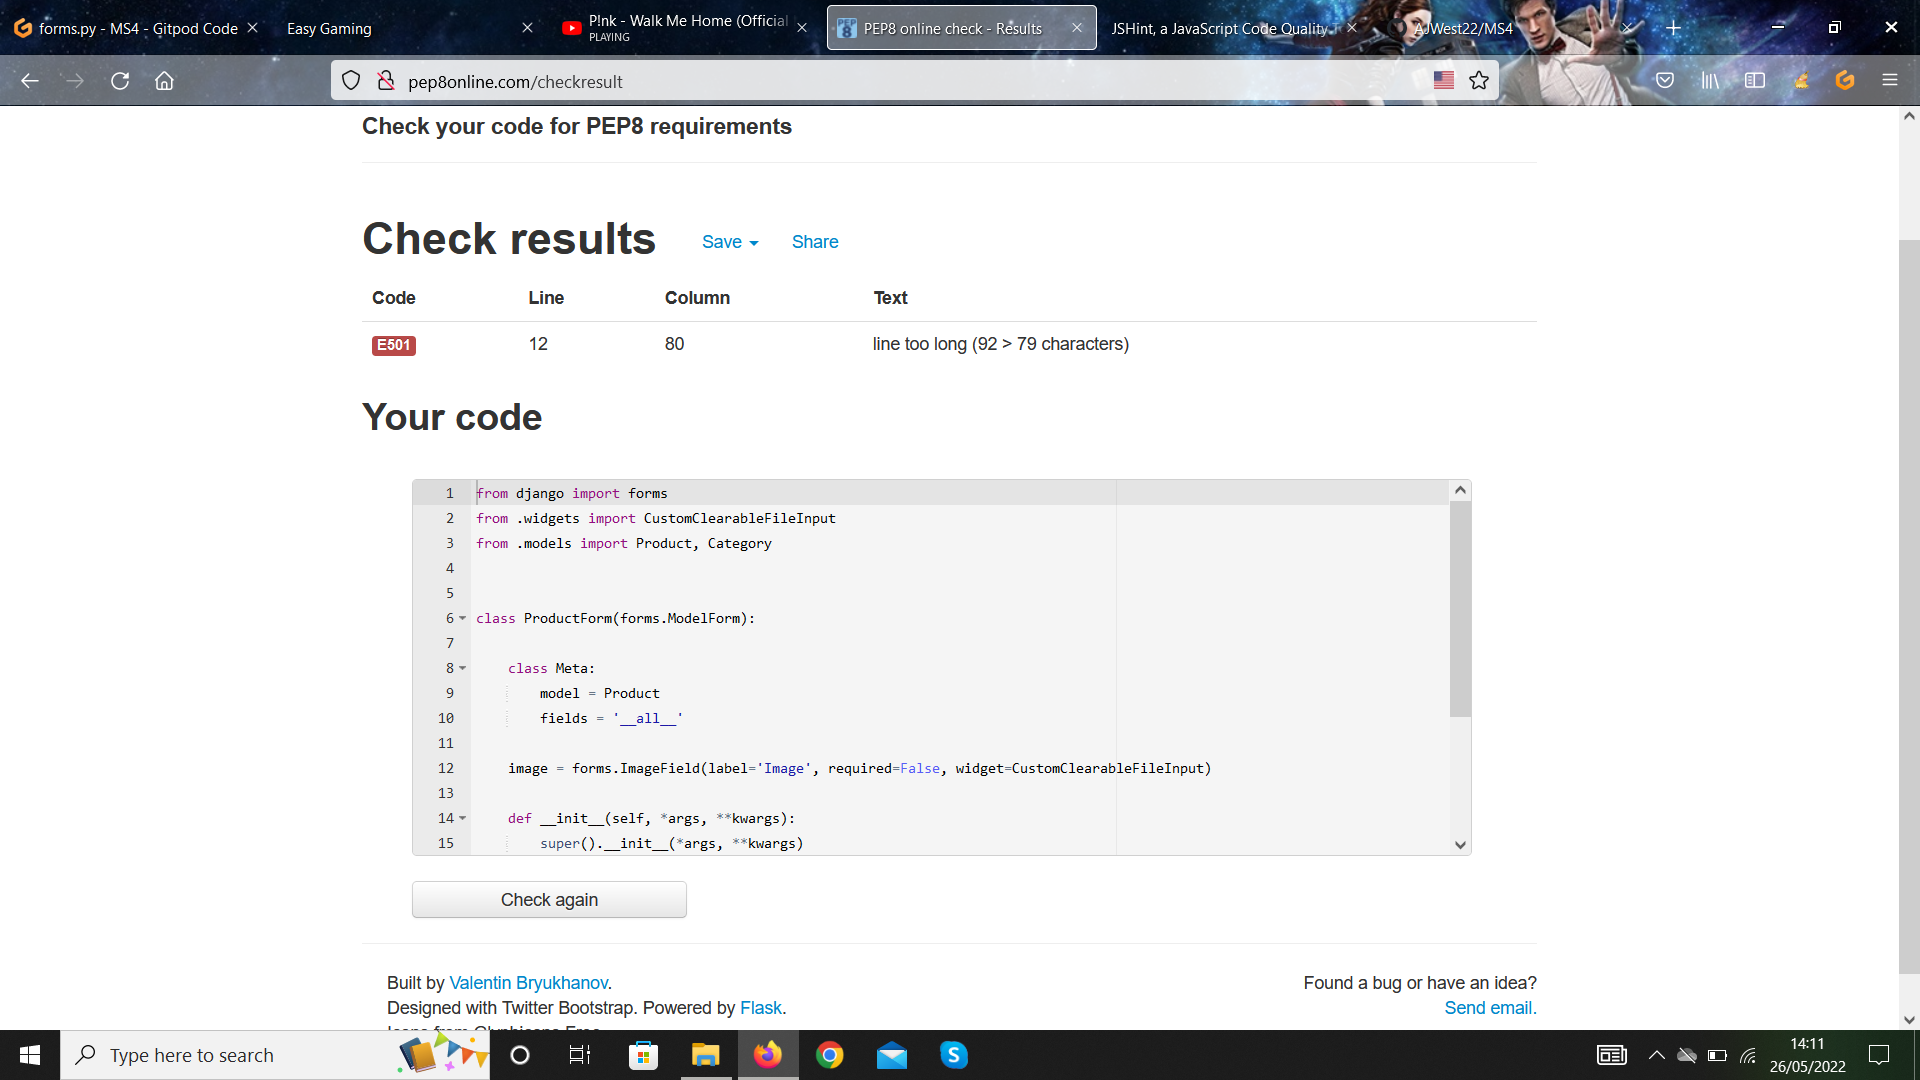
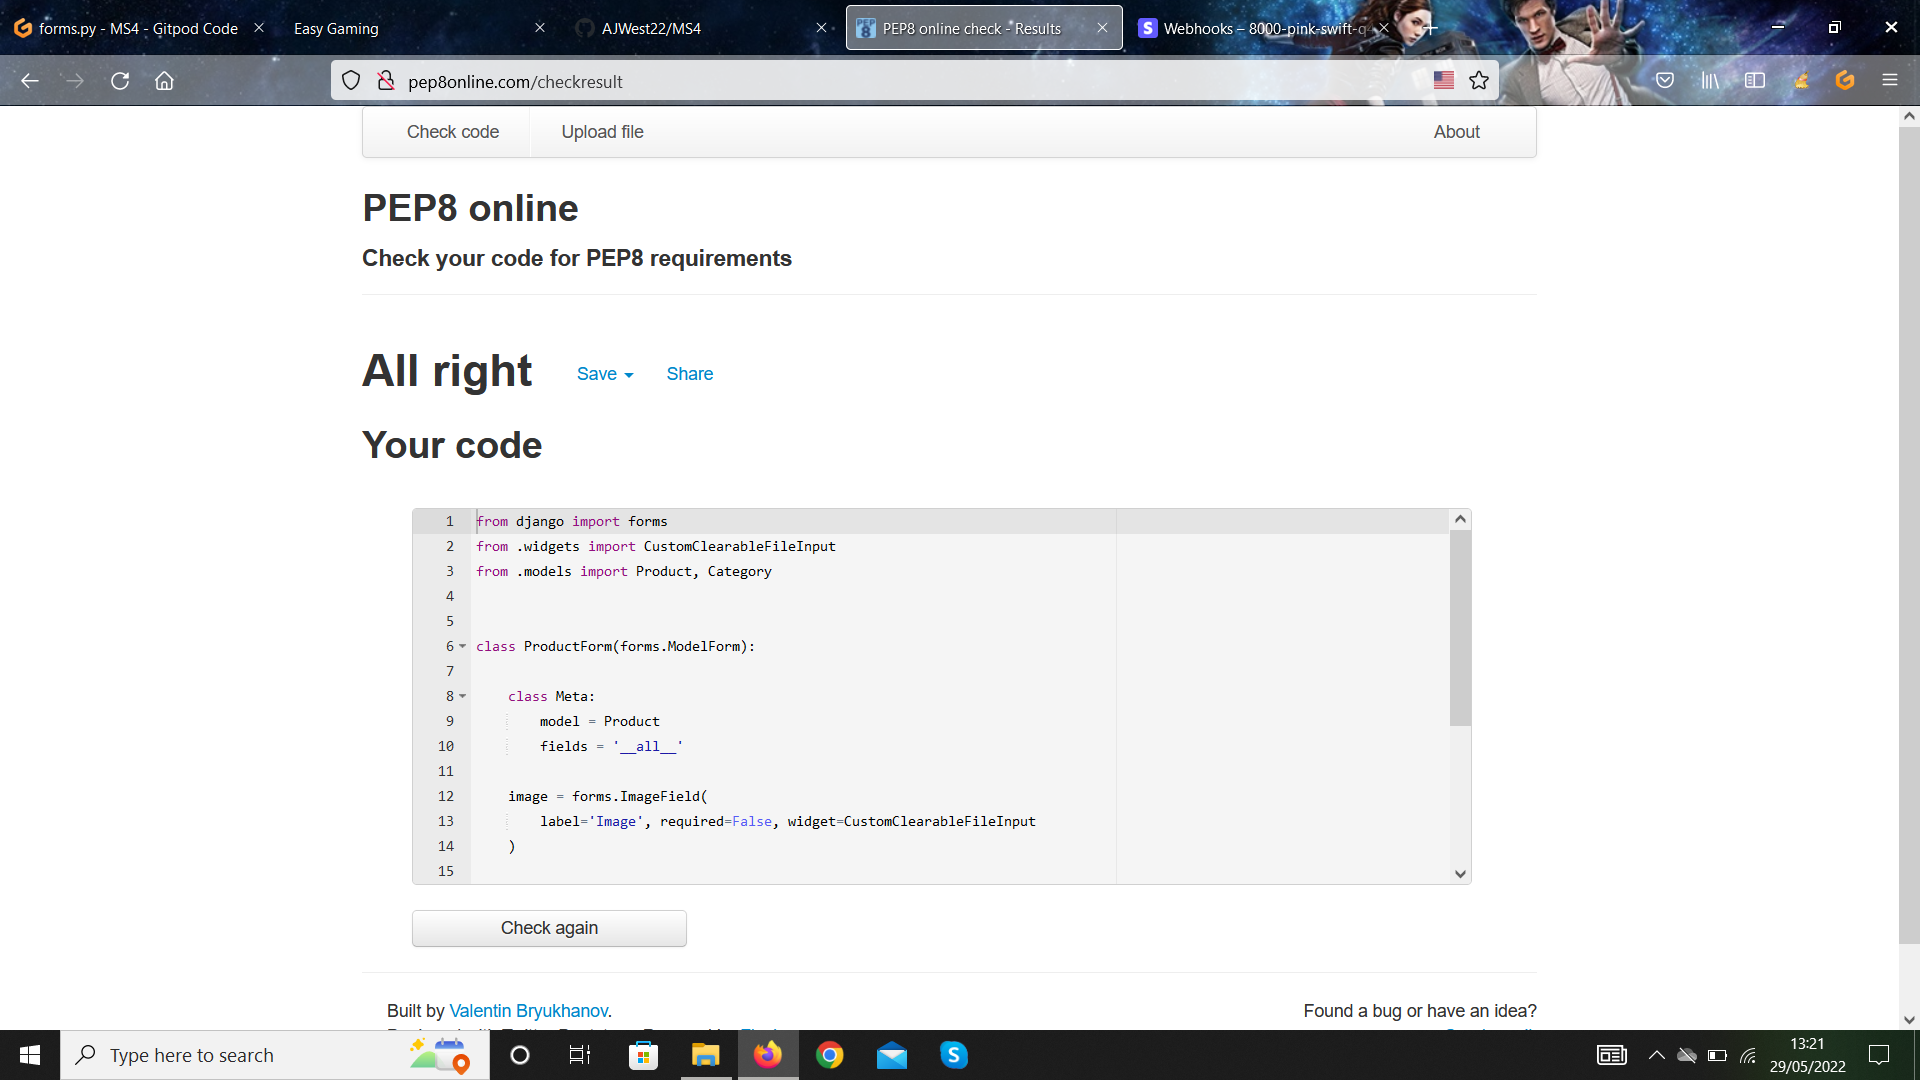
Fix errors in Products python files and amend screenshots in README

diff --git a/products/views.py b/products/views.py
@@ -44,8 +44,9 @@ def all_products(request):
             if not query:
                 messages.error(request, "You didn't enter a search!")
                 return redirect(reverse('products'))
-                
-            queries = Q(name__icontains=query) | Q(description__icontains=query)
+
+            queries = Q(name__icontains=query) | \
+                Q(description__icontains=query)
             products = products.filter(queries)
 
     current_sorting = f'{sort}_{direction}'
@@ -86,7 +87,10 @@ def add_product(request):
             messages.success(request, 'New product added!')
             return redirect(reverse('product_detail', args=[product.id]))
         else:
-            messages.error(request, 'Failed to add this product. Please check the form is valid.')
+            messages.error(
+                request, 'Failed to add this product. \
+                    Please check the form is valid.'
+            )
     else:
         form = ProductForm()
 
@@ -113,7 +117,10 @@ def edit_product(request, product_id):
             messages.success(request, 'Successfully updated product!')
             return redirect(reverse('product_detail', args=[product.id]))
         else:
-            messages.error(request, 'The product failed to update. Please check the form.')
+            messages.error(
+                request, 'The product failed to update. \
+                     Please check the form.'
+            )
     else:
         form = ProductForm(instance=product)
         messages.info(request, f'You are editing {product.name}')

diff --git a/products/models.py b/products/models.py
@@ -17,13 +17,19 @@ class Category(models.Model):
 
 
 class Product(models.Model):
-    category = models.ForeignKey('Category', null=True, blank=True, on_delete=models.SET_NULL)
+    category = models.ForeignKey(
+        'Category', null=True, blank=True, on_delete=models.SET_NULL
+    )
     sku = models.CharField(max_length=254, null=True, blank=True)
     name = models.CharField(max_length=254)
     description = models.TextField()
-    has_quantities = models.BooleanField(default=False, null=True, blank=True)
+    has_quantities = models.BooleanField(
+        default=False, null=True, blank=True
+    )
     price = models.DecimalField(max_digits=6, decimal_places=2)
-    rating = models.DecimalField(max_digits=6, decimal_places=2, null=True, blank=True)
+    rating = models.DecimalField(
+        max_digits=6, decimal_places=2, null=True, blank=True
+    )
     image_url = models.URLField(max_length=1024, null=True, blank=True)
     image = models.ImageField(null=True, blank=True)
 

diff --git a/products/forms.py b/products/forms.py
@@ -9,7 +9,9 @@ class ProductForm(forms.ModelForm):
         model = Product
         fields = '__all__'
 
-    image = forms.ImageField(label='Image', required=False, widget=CustomClearableFileInput)
+    image = forms.ImageField(
+        label='Image', required=False, widget=CustomClearableFileInput
+    )
 
     def __init__(self, *args, **kwargs):
         super().__init__(*args, **kwargs)

diff --git a/products/widgets.py b/products/widgets.py
@@ -6,4 +6,6 @@ class CustomClearableFileInput(ClearableFileInput):
     clear_checkbox_label = _('Remove')
     initial_text = _('Current Image')
     input_text = _('')
-    template_name = 'products/custom_widget_templates/custom_clearable_file_input.html'
+    template_name = (
+        'products/custom_widget_templates/custom_clearable_file_input.html'
+    )
